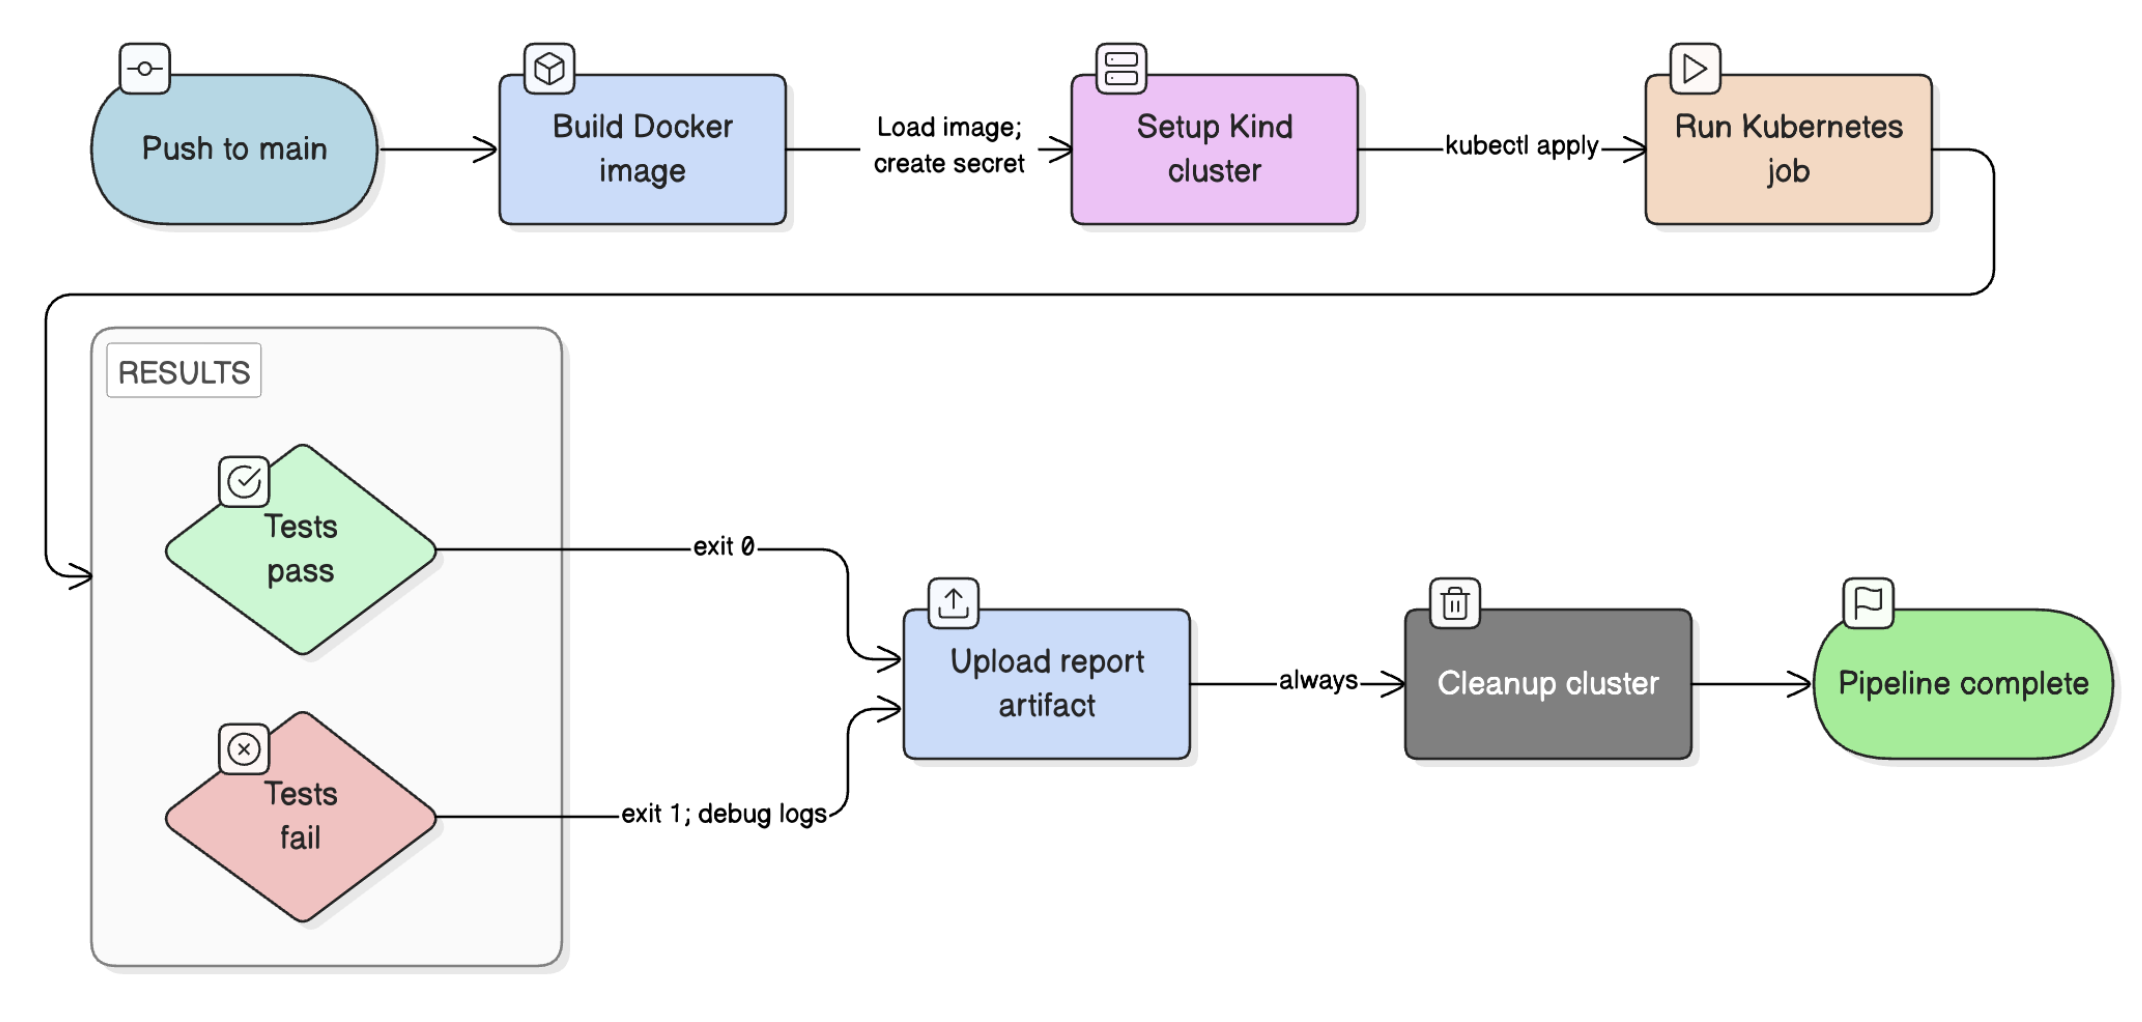
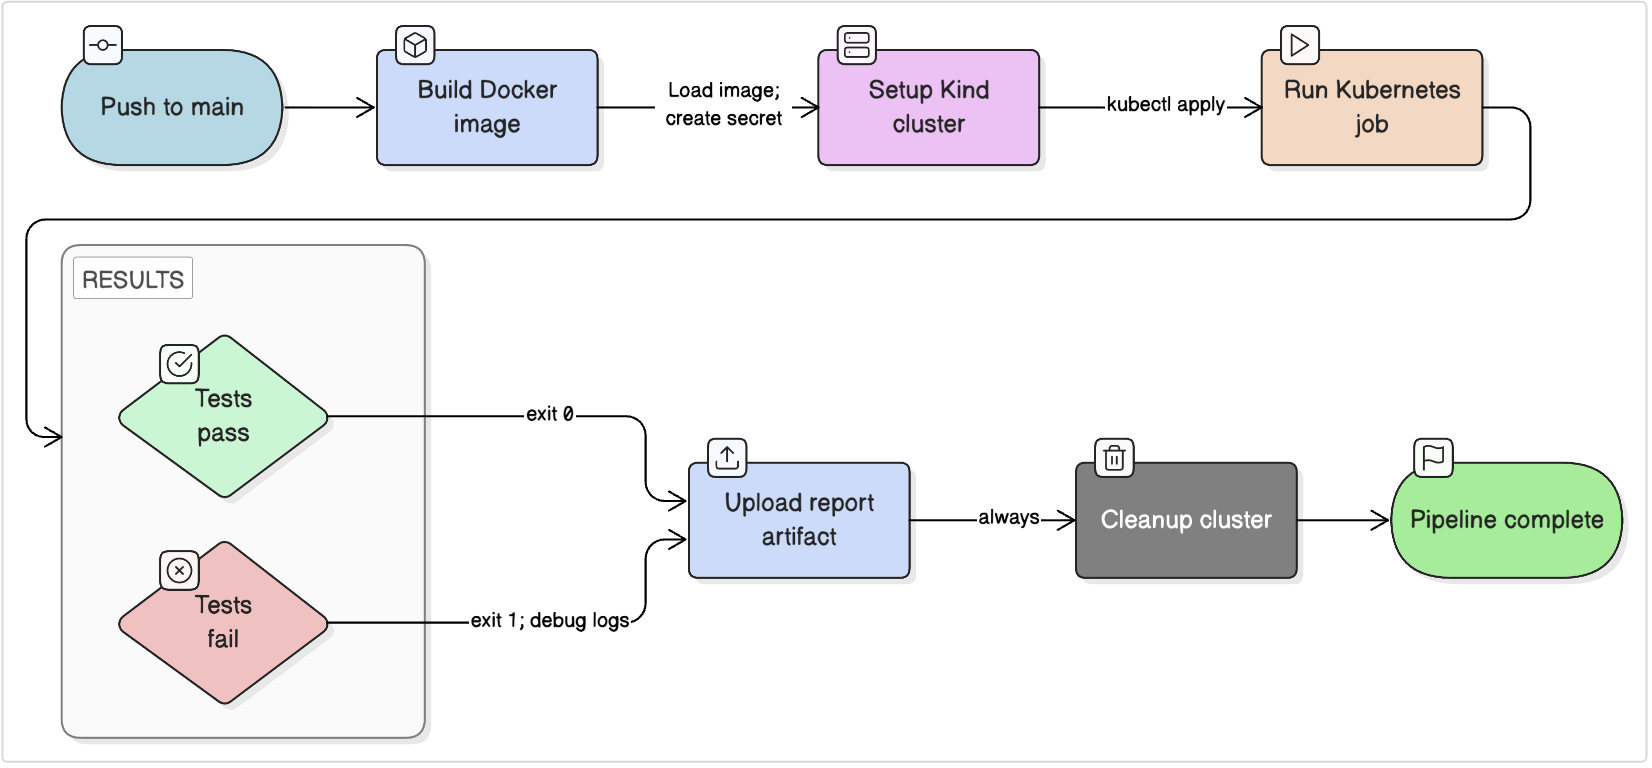
Update CI/CD pipeline diagram in README.md

diff --git a/README.md b/README.md
@@ -312,7 +312,7 @@ test('some authenticated test', async ({ loginPage }) => {
 
 The GitHub Actions workflow at [.github/workflows/playwright.yml](.github/workflows/playwright.yml) runs on every push to `main` and on manual dispatch.
 
-![CI/CD Pipeline Diagram]()
+![CI/CD Pipeline Diagram](image.png)
 
 ### Required GitHub Secrets
 
